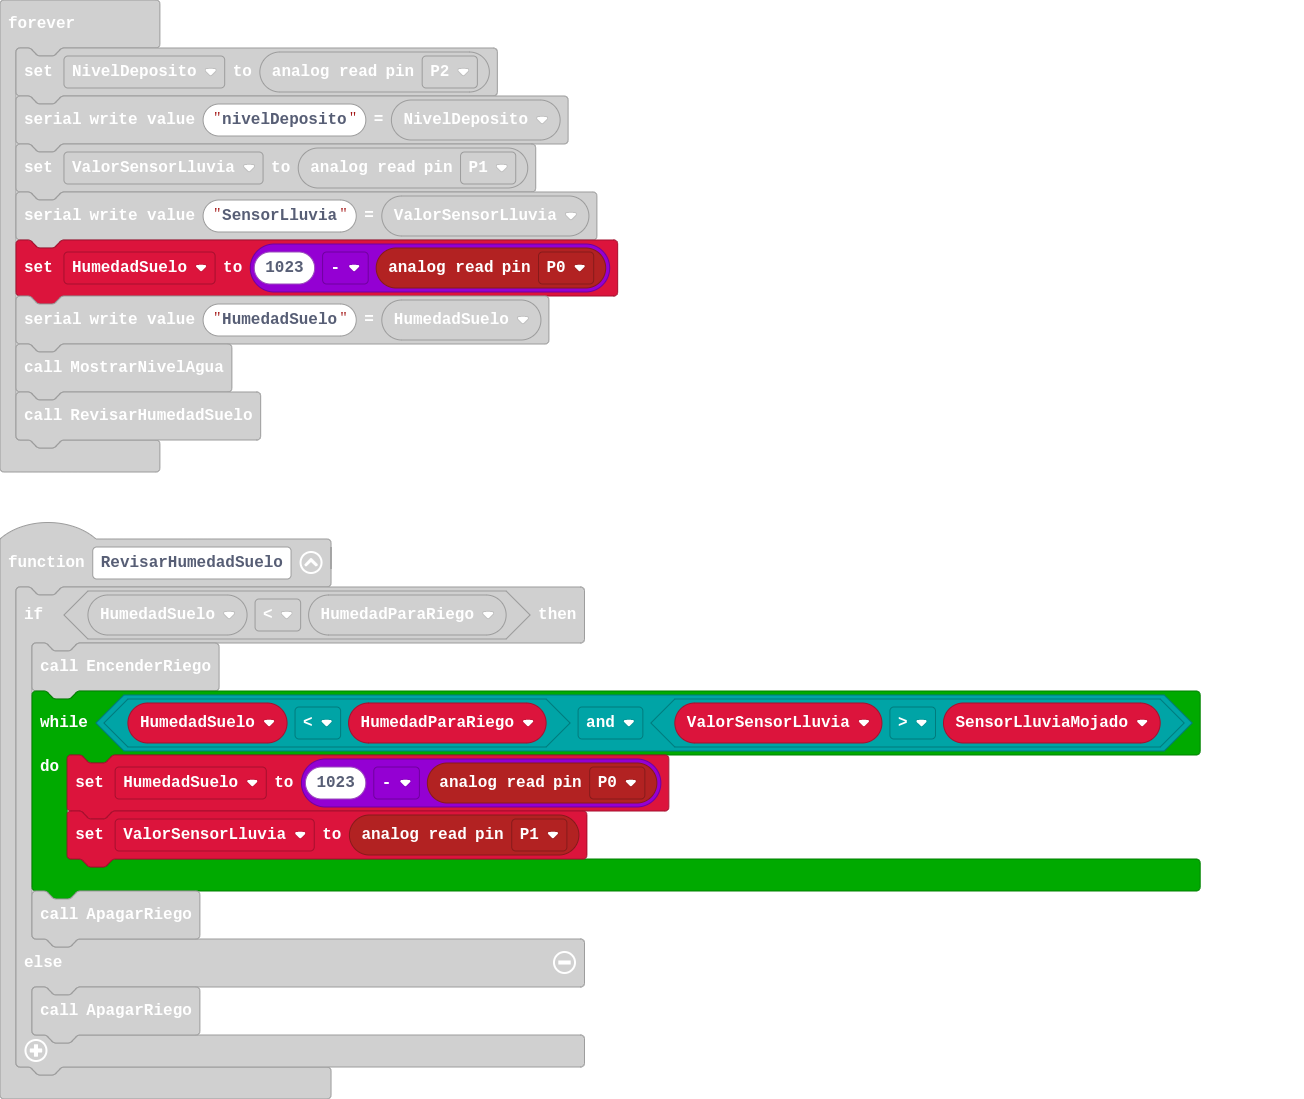
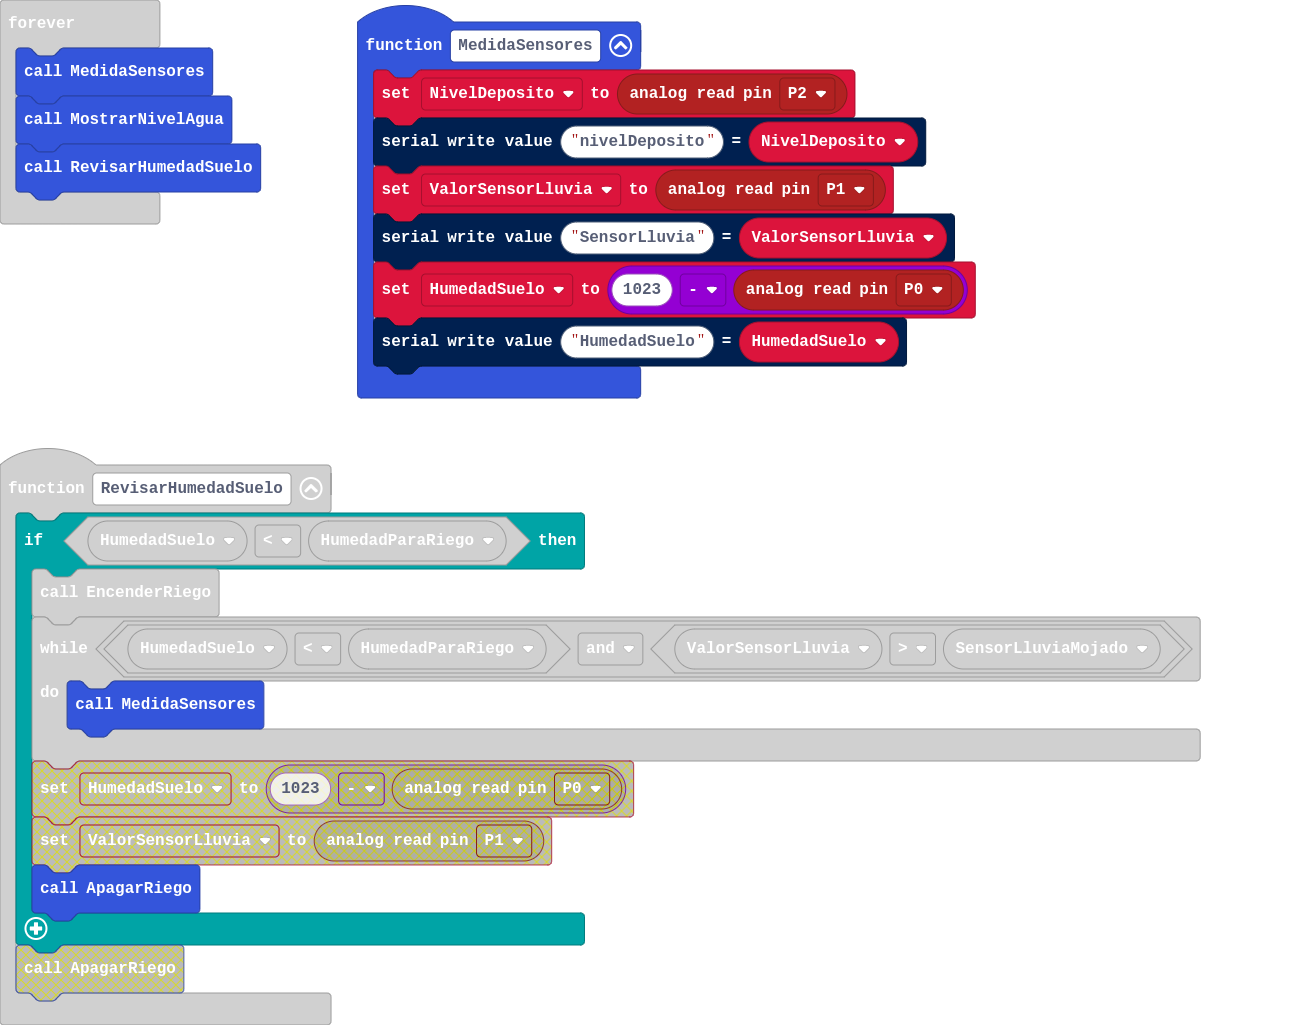
creamos funciones para estructurar la medida de sensores

diff --git a/main.ts b/main.ts
@@ -72,6 +72,14 @@ function ApagarRiego () {
 input.onButtonPressed(Button.A, function () {
     EncenderRiego()
 })
+function MedidaSensores () {
+    NivelDeposito = pins.analogReadPin(AnalogPin.P2)
+    serial.writeValue("nivelDeposito", NivelDeposito)
+    ValorSensorLluvia = pins.analogReadPin(AnalogPin.P1)
+    serial.writeValue("SensorLluvia", ValorSensorLluvia)
+    HumedadSuelo = 1023 - pins.analogReadPin(AnalogPin.P0)
+    serial.writeValue("HumedadSuelo", HumedadSuelo)
+}
 input.onButtonPressed(Button.B, function () {
     ApagarRiego()
 })
@@ -79,16 +87,13 @@ function RevisarHumedadSuelo () {
     if (HumedadSuelo < HumedadParaRiego) {
         EncenderRiego()
         while (HumedadSuelo < HumedadParaRiego && ValorSensorLluvia > SensorLluviaMojado) {
-            HumedadSuelo = 1023 - pins.analogReadPin(AnalogPin.P0)
-            ValorSensorLluvia = pins.analogReadPin(AnalogPin.P1)
+            MedidaSensores()
         }
-        ApagarRiego()
-    } else {
         ApagarRiego()
     }
 }
-let ValorSensorLluvia = 0
 let HumedadSuelo = 0
+let ValorSensorLluvia = 0
 let NivelDeposito = 0
 let SensorLluviaMojado = 0
 let HumedadParaRiego = 0
@@ -98,12 +103,7 @@ AlarmaNivelAgua = 400
 HumedadParaRiego = 500
 SensorLluviaMojado = 800
 basic.forever(function () {
-    NivelDeposito = pins.analogReadPin(AnalogPin.P2)
-    serial.writeValue("nivelDeposito", NivelDeposito)
-    ValorSensorLluvia = pins.analogReadPin(AnalogPin.P1)
-    serial.writeValue("SensorLluvia", ValorSensorLluvia)
-    HumedadSuelo = 1023 - pins.analogReadPin(AnalogPin.P0)
-    serial.writeValue("HumedadSuelo", HumedadSuelo)
+    MedidaSensores()
     MostrarNivelAgua()
     RevisarHumedadSuelo()
 })
